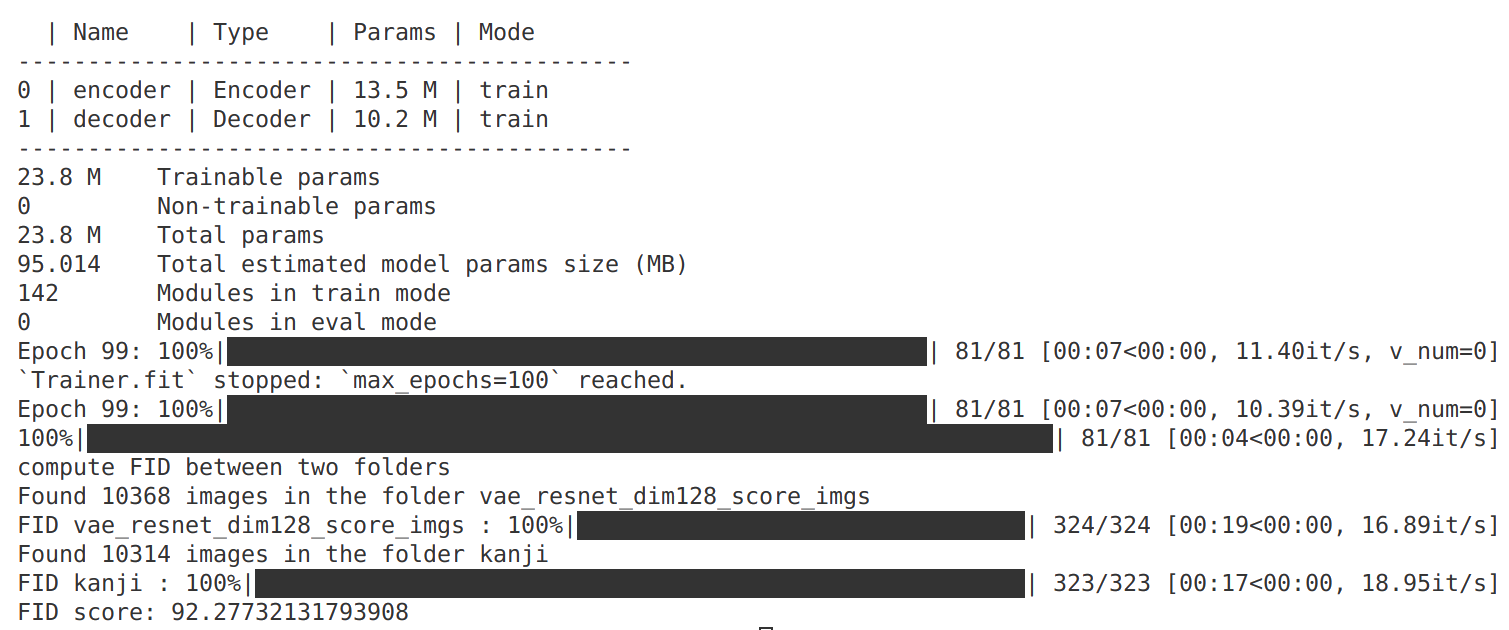
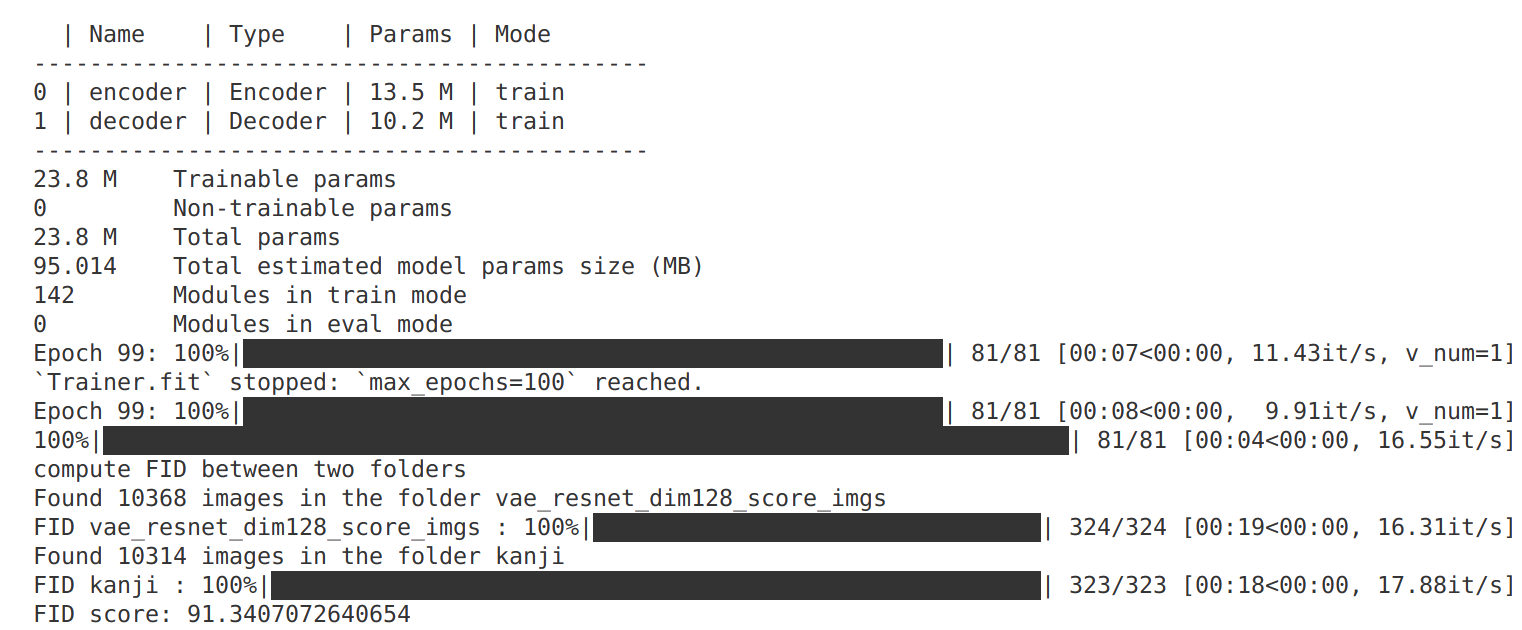
Took off hflip and did more vae trials

Changed region(s): [[0.0, 0.0302, 0.9967, 0.9952], [0.4983, 0.9952, 0.5295, 1.0]]

diff --git a/VAE/main.py b/VAE/main.py
@@ -20,7 +20,7 @@ import variational_autoencoder
 parser = argparse.ArgumentParser(description='Train a variational autoencoder on Kanji characters')
 parser.add_argument('--batch_size', type=int, default=128, help='The batch size for training')
 parser.add_argument('--epochs', type=int, default=100, help='The number of epochs to train for')
-parser.add_argument('--latent_dim', type=int, default=128, help='The dimension of the latent space')
+parser.add_argument('--latent_dim', type=int, default=256, help='The dimension of the latent space')
 parser.add_argument('--lr', type=float, default=1e-3, help='The learning rate for training')
 parser.add_argument('--save_dir', type=str, default='vae', help='The directory to save the model and logs')
 parser.add_argument('--sample_every', type=int, default=4, help='The number of epochs between sampling')
@@ -34,7 +34,6 @@ class KanjiDataset(Dataset):
     def __init__(self, root, transform=None):
         self.root = root
         self.transform = transform
-        self.h_flip = v2.RandomHorizontalFlip()
         self.data = []
         for i, file in tqdm(enumerate(os.listdir(root)), desc='Loading images'):
             img = Image.open(os.path.join(root, file))
@@ -48,7 +47,7 @@ class KanjiDataset(Dataset):
         return len(self.data)
     
     def __getitem__(self, idx):
-        return self.h_flip(self.data[idx])
+        return self.data[idx]
     
 class VAE(L.LightningModule):
     def __init__(self):
